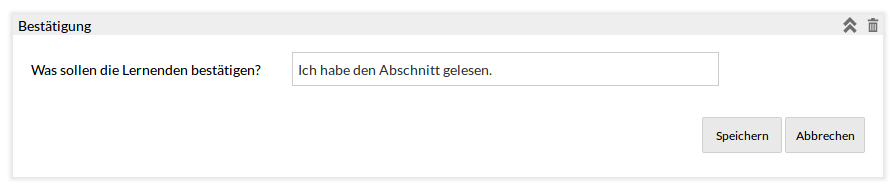
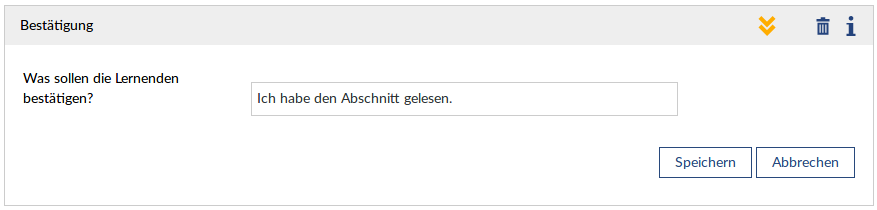
update docs

diff --git a/docs/blocks.md b/docs/blocks.md
@@ -5,50 +5,8 @@ Jeder [Abschnitt](structure.md) wird als eigene Seite dargestellt und kann belie
 
 Folgende Blocktypen sind in Courseware enthalten:
 
-
-Freitext-Block
----------------
-Freitext-Blöcke enthalten beliebig lange Texte die mittels eines WYSIWYG-Editors erstellt und formatiert werden können.
-Der WYSIWYG-Editor ermöglicht außerdem das Einbinden von Bildern und externen Links.
-
-![Autorenansicht des Freitext-Blocks](img/htmlBlock_edit.png)
-_Autorenansicht des Freitext-Blocks_
-
-![Studentenansicht des Freitext-Blocks](img/htmlBlock.png)
-_Studentenansicht des Freitext-Blocks_
-
-
-Video-Block
-------------
-Der Video-Block bettet ein Video aus verschiedensten Quellen in Courseware ein. Folgende Optionen stehen zur Auswahl:
-- **Webvideo** ermöglicht das einbetten eines <video>-Tags. Es können verschiedene Qualitäten und Dateiformate gewählt werden.
-- **YouTube**  bindet Videos mittels einer YouTube-ID ein. Es können Autoplay sowie Start und Ende des Videos gewählt werden.
-- **openCast** bindet Vorlesungsaufzeichnungen ein die mit dem openCast-Player dargestellt werden.
-- **eingebettetes Video (iFrame)** ermöglicht das einbetten mittels <iframe>-Tag. Dies ist notwendig wenn ein spezieller Player bereitgestellt wird.
-
-![Autorenansicht des Video-Blocks](img/videoBlock_edit.png)
-_Autorenansicht des Video-Blocks_
-
-![Studentenansicht des Video-Blocks](img/videoBlock.png)
-_Studentenansicht des Video-Blocks_
-
-
-Quiz-Block
------------
-Der Quiz-Block stellt Aufgaben aus dem Vips-Plugin dar. Die Aufgaben können von den Lernenden bearbeitet und zur Auswertung abgeschickt werden.
-Es gibt zwei Typen von Quiz-Blöcken, den Selbsttest und das Übungsblatt. Selbsttest können beliebig oft ausgeführt werden, die Auswertung erfolgt sofort.
-In den Courseware-Einstellungen kann die Anzahl der Versuche, bis die Lösung angezeigt wird, eingestellt werden. Das Übungsblatt wird erst durch den Dozenten
-im Vips-Plugin ausgewertet. Solange die Übung aktiv ist kann ein Lernender die Lösungen abändern. 
-
-![Autorenansicht des Quiz-Blocks](img/testBlock_edit.png)
-_Autorenansicht des Quiz-Blocks_
-
-![Studentenansicht des Quiz-Blocks](img/testBlock.png)
-_Studentenansicht des Quiz-Blocks_
-
-
-Audio-Block
-------------
+Audio
+-----
 In den Audio-Block können Audiodateien aus dem Dateibereich in Courseware eingebunden werden.
 Der Courseware-Audio-Player ermöglicht die Funktionen Play, Pause und Stop. Vor- und zurückspulen ist 
 über die Fortschrittsanzeige möglich.
@@ -62,20 +20,8 @@ _Autorenansicht des Audio-Blocks_
 _Studentenansicht des Audio-Blocks_
 
 
-Quellcode-Block (ab 3.0)
-------------------------
-Der Quellcode-Block verwendet das Syntax-Highlighting-Tool [highlight.js](https://highlightjs.org/).
-Eingegebener Quelltext wird mittels der angegebenen Sprache dargestellt wie in einer IDE.
-
-![Autorenansicht des Quellcode-Blocks](img/codeBlock_edit.png)
-_Autorenansicht des Quellcode-Blocks_
-
-![Studentenansicht des Quellcode-Blocks](img/codeBlock.png)
-_Studentenansicht des Quellcode-Blocks_
-
-
-Bestätigungs-Block
--------------------
+Bestätigung
+-----------
 In einer Courseware die sequentiell abgearbeitet werden soll müssen die in einer Sektion enthaltenen Blöcke bearbeitet werden damit das nächste Kapitel aufgerufen werden kann.
 Da manche Blöcke wie z.B. Freitext-Block, IFrame-Block etc. nur das betrachten als Bestehenskriterium haben, kann mit dem Bestätigungs-Block eine zusätzliches Bestehenskriterium
 
@@ -88,8 +34,31 @@ _Autorenansicht des Bestätigungs-Blocks_
 _Studentenansicht des Bestätigungs-Blocks_
 
 
-Download-Block
----------------
+Bildvergleich
+-------------
+Der Bildvergleich-Block ermöglicht den direkten Vergleich zwischen zwei Bildern. Mit einem Schieberegler kann ein Bild
+über ein anderes gelegt werden. Die Bilder können von einer URL oder aus dem Dateibereich geladen werden.
+
+![Autorenansicht des Bildvergleich-Blocks](img/beforeAfterBlockBlock_edit.png)
+_Autorenansicht des Bildvergleich-Blocks_
+
+![Studentenansicht des Bildvergleich-Blocks](img/beforeAfterBlockBlock.png)
+_Studentenansicht des Bildvergleich-Blocks_
+
+
+Diagramm
+--------
+Mit dem Diagramm-Block können unkompliziert Diagramm erstellt werden, diese werden bei der Darstellung animiert.
+
+![Autorenansicht des Diagramm-Blocks](img/diagrammBlock_edit.png)
+_Autorenansicht des Diagramm-Blocks_
+
+![Studentenansicht des Diagramm-Blocks](img/diagrammBlock.png)
+_Studentenansicht des Diagramm-Blocks_
+
+
+Download
+--------
 Dieser Block ermöglicht den Download einer Datei aus dem Dateibereich.
 
 ![Autorenansicht des Download-Blocks](img/downloadBlock_edit.png)
@@ -99,31 +68,22 @@ _Autorenansicht des Download-Blocks_
 _Studentenansicht des Download-Blocks_
 
 
-Evaluationen-Block
--------------------
-Mit diesem Block können StudI-Evaluationen in Courseware eingebunden werden.
+Embed
+-----
+Mit diesem Block lassen sich Inhalte von diversen Plattformen in Courseware einbinden.
+
+![Autorenansicht des Embed-Blocks](img/embedBlock_edit.png)
+_Autorenansicht des Embed-Blocks_
+
+![Studentenansicht des Embed-Blocks](img/embedBlock.png)
+_Studentenansicht des Embed-Blocks_
 
 
-Forum-Block
-------------
-Mit diesem Block kann das StudIP-Forum in Courseware eingebunden werden.
-
-
-Gruppierungs-Block
--------------------
-Der Gruppierungs-Block fasst optisch mehrere Blöcke zusammen. Es ist eine Darstellung in einem sogenannten Accordion oder in Tabs möglich.
-
-![Autorenansicht des Gruppierungs-Blocks](img/assortBlock_edit.png)
-_Autorenansicht des Gruppierungs-Blocks_
-
-![Studentenansicht des Gruppierungs-Blocks](img/assortBlock.png)
-_Studentenansicht des Gruppierungs-Blocks_
-
-
-IFrame-Block
--------------
+externe Inhalte (iframe)
+-------------------------
 Dieser Block bindet externe Inhalte von anderen Websites ein. Es kann die URL der einzubindenden Website angegeben werden, sowie die Höhe die dieser Block einnehmen soll.
 Außerdem besteht die Möglichkeit eine einmalige User-ID an die eingebundene Seite zu übermitteln. Dies ID lässt keine Rückschlüsse auf den StudIP-Nutzer zu, identifiziert jedoch eindeutig.
+Zur Kennzeichnung der Inhalte können Creative Commons angaben gemacht werden.
 
 ![Autorenansicht des IFrame-Blocks](img/iframeBlock_edit_1.png)
 _Autorenansicht des IFrame-Blocks_
@@ -135,8 +95,25 @@ _Autorenansicht des IFrame-Blocks mit Übergabeparameter_
 _Studentenansicht des IFrame-Blocks_
 
 
-Galerie-Block (ab 2.2)
------------------------
+Forum
+------
+Mit diesem Block kann das StudIP-Forum in Courseware eingebunden werden.
+
+
+Freitext
+--------
+Freitext-Blöcke enthalten beliebig lange Texte die mittels eines WYSIWYG-Editors erstellt und formatiert werden können.
+Der WYSIWYG-Editor ermöglicht außerdem das Einbinden von Bildern und externen Links.
+
+![Autorenansicht des Freitext-Blocks](img/htmlBlock_edit.png)
+_Autorenansicht des Freitext-Blocks_
+
+![Studentenansicht des Freitext-Blocks](img/htmlBlock.png)
+_Studentenansicht des Freitext-Blocks_
+
+
+Galerie
+-------
 In den Galerie-Block werden alle Bilder aus einem Ordner des Dateibereichs in einer Karussellansicht angezeigt. 
 Die Bilder können automatisch wechseln (autoplay) und die Navigationspfeile können ausgeblendet werden.
 
@@ -150,53 +127,31 @@ _Studentenansicht des Galerie-Blocks mit Navigationspfeilen_
 _Studentenansicht des Galerie-Blocks ohne Navigationspfeile_
 
 
-Merksatz-Block (ab 3.0)
-------------------------
-Der Merksatz-Block ermöglicht das hervorheben von Informationen. Es können 5 verschiedene Farben und 15 verschiedene Icons ausgewählt werden.
+Gruppierung
+-----------
+Der Gruppierungs-Block fasst optisch mehrere Blöcke zusammen. Es ist eine Darstellung in einem sogenannten Accordion oder in Tabs möglich.
 
-![Autorenansicht des Merksatz-Blocks](img/keypointBlock_edit.png)
-_Autorenansicht des Merksatz-Blocks_
+![Autorenansicht des Gruppierungs-Blocks](img/assortBlock_edit.png)
+_Autorenansicht des Gruppierungs-Blocks_
 
-![Studentenansicht des Merksatz-Blocks](img/keypointBlock.png)
-_Studentenansicht des Merksatz-Blocks_
-
-
-Such-Block (ab 3.0)
---------------------
-Der Such-Block ermöglicht das Suchen innerhalb der Courseware einer Veranstaltung. 
-Dieser Block kann sowohl in Sektionen als auch in der Sidebar verwendet werden.
-
-![Autorenansicht des Such-Blocks](img/searchBlock_edit.png)
-_Autorenansicht des Such-Blocks_
-
-![Studentenansicht des Such-Blocks](img/searchBlock.png)
-_Studentenansicht des Such-Blocks_
+![Studentenansicht des Gruppierungs-Blocks](img/assortBlock.png)
+_Studentenansicht des Gruppierungs-Blocks_
 
 
-Link-Block (ab 3.0)
---------------------
-Mit dem Link-Block lassen sich Links auf Strukturelemente innerhalb der Courseware setzen und externe Links erstellen.
+Interactive Video
+-----------------
+Mit dem InteractiveVideo-Block lassen sich während ein Video abgespielt wird Texte einblenden, Haltepunkte mit Text stoppen die Wiedergabe
+ und Aufgaben aus Vips lassen sich direkt im Video bearbeiten. Texte können in verschiedenen vordefinierten Formaten dargestellt und positioniert werden.
 
-![Autorenansicht des Link-Blocks](img/linkBlock_edit.png)
-_Autorenansicht des Link-Blocks_
+![Autorenansicht des InteractiveVideo-Blocks](img/iav_edit.png)
+_Autorenansicht des InteractiveVideo-Blocks_
 
-![Studentenansicht des Link-Blocks](img/linkBlock.png)
-_Studentenansicht des Link-Blocks_
-
-
-PDF-Block (ab 3.0)
---------------------
-Der PDF-Block kann PDF Dateien aus dem Dateibereich darstellen. Die Datei lässt sich wie gewohnt durchblättern und runter laden.
-
-![Autorenansicht des PDF-Blocks](img/pdfBlock_edit.png)
-_Autorenansicht des PDF-Blocks_
-
-![Studentenansicht des PDF-Blocks](img/pdfBlock.png)
-_Studentenansicht des PDF-Blocks_
+![Studentenansicht des InteractiveVideo-Blocks](img/iav.png)
+_Studentenansicht des InteractiveVideo-Blocks_
 
 
-Kommentare & Diskussion Block (ab 3.0)
---------------------
+Kommentare & Diskussion
+-----------------------
 Dieser Block ermöglicht eine Kommunikation zwischen den Lernenden untereinander und mit dem Lehrenden. 
 Kommentare und Fragen können hiermit gezielt an einer gewünschten Stelle eingebunden werden. Der Lehrende hat die 
 Möglichkeit über die Diskussionsübersicht alle Diskussionen einer Veranstaltung auf einen Blick zu sehen.
@@ -209,3 +164,136 @@ _Studentenansicht des Kommentare & Diskussion Blocks_
 
 ![Diskussionsübersicht für Lehrende](img/cpo_post.png)
 _Diskussionsübersicht für Lehrende_
+
+
+Lernkarten
+----------
+Der Lernkarten-Block kann ein Set beliebig vieler Karten enthalten. Auf die Vorder- und Rückseite
+einer Karte kann ein Bild und ein Text gesetzt werden. Der Lernende kann durch die Karten blättern und jede Karte umdrehen.
+
+![Autorenansicht des Lernkarten-Blocks](img/dialogCardBlock_edit.png)
+_Autorenansicht des Lernkarten-Blocks_
+
+![Studentenansicht des Lernkarten-Blocks](img/dialogCardBlock.png)
+_Studentenansicht des Lernkarten-Blocks_
+
+
+Link
+----
+Mit dem Link-Block lassen sich Links auf Strukturelemente innerhalb der Courseware setzen und externe Links erstellen.
+
+![Autorenansicht des Link-Blocks](img/linkBlock_edit.png)
+_Autorenansicht des Link-Blocks_
+
+![Studentenansicht des Link-Blocks](img/linkBlock.png)
+_Studentenansicht des Link-Blocks_
+
+
+Merksatz
+--------
+Der Merksatz-Block ermöglicht das hervorheben von Informationen. Es können 5 verschiedene Farben und 15 verschiedene Icons ausgewählt werden.
+
+![Autorenansicht des Merksatz-Blocks](img/keypointBlock_edit.png)
+_Autorenansicht des Merksatz-Blocks_
+
+![Studentenansicht des Merksatz-Blocks](img/keypointBlock.png)
+_Studentenansicht des Merksatz-Blocks_
+
+
+Opencast
+--------
+In Verbindung mit dem Opencast-Plugin können Opencast-Videos abgespielt werden. Wahlweise kann der Opencast-Player verwendet werden.
+
+![Autorenansicht des Opencast-Blocks](img/openCastBlock_edit.png)
+_Autorenansicht des Opencast-Blocks_
+
+![Studentenansicht des Opencast-Blocks](img/openCastBlock.png)
+_Studentenansicht des Opencast-Blocks_
+
+
+PDF mit Vorschau
+----------------
+Der PDF-Block kann PDF Dateien aus dem Dateibereich darstellen. Die Datei lässt sich wie gewohnt durchblättern und runter laden.
+
+![Autorenansicht des PDF-Blocks](img/pdfBlock_edit.png)
+_Autorenansicht des PDF-Blocks_
+
+![Studentenansicht des PDF-Blocks](img/pdfBlock.png)
+_Studentenansicht des PDF-Blocks_
+
+
+Quellcode-Block
+----------------
+Der Quellcode-Block verwendet das Syntax-Highlighting-Tool [highlight.js](https://highlightjs.org/).
+Eingegebener Quelltext wird mittels der angegebenen Sprache dargestellt wie in einer IDE.
+
+![Autorenansicht des Quellcode-Blocks](img/codeBlock_edit.png)
+_Autorenansicht des Quellcode-Blocks_
+
+![Studentenansicht des Quellcode-Blocks](img/codeBlock.png)
+_Studentenansicht des Quellcode-Blocks_
+
+
+Quiz
+----
+Der Quiz-Block stellt Aufgaben aus dem Vips-Plugin dar. Die Aufgaben können von den Lernenden bearbeitet und zur Auswertung abgeschickt werden.
+Es gibt zwei Typen von Quiz-Blöcken, den Selbsttest und das Übungsblatt. Selbsttest können beliebig oft ausgeführt werden, die Auswertung erfolgt sofort.
+In den Courseware-Einstellungen kann die Anzahl der Versuche, bis die Lösung angezeigt wird, eingestellt werden. Das Übungsblatt wird erst durch den Dozenten
+im Vips-Plugin ausgewertet. Solange die Übung aktiv ist kann ein Lernender die Lösungen abändern. 
+
+![Autorenansicht des Quiz-Blocks](img/testBlock_edit.png)
+_Autorenansicht des Quiz-Blocks_
+
+![Studentenansicht des Quiz-Blocks](img/testBlock.png)
+_Studentenansicht des Quiz-Blocks_
+
+
+Suche
+-----
+Der Such-Block ermöglicht das Suchen innerhalb der Courseware einer Veranstaltung. 
+Dieser Block kann sowohl in Sektionen als auch in der Sidebar verwendet werden.
+
+![Autorenansicht des Such-Blocks](img/searchBlock_edit.png)
+_Autorenansicht des Such-Blocks_
+
+![Studentenansicht des Such-Blocks](img/searchBlock.png)
+_Studentenansicht des Such-Blocks_
+
+
+Video
+-----
+Der Video-Block bettet ein Video aus verschiedensten Quellen in Courseware ein. Folgende Optionen stehen zur Auswahl:
+- **Webvideo** ermöglicht das einbetten eines <video>-Tags. Es können verschiedene Qualitäten und Dateiformate gewählt werden.
+- **eingebettetes Video (iFrame)** ermöglicht das einbetten mittels <iframe>-Tag. Dies ist notwendig wenn ein spezieller Player bereitgestellt wird.
+
+![Autorenansicht des Video-Blocks](img/videoBlock_edit.png)
+_Autorenansicht des Video-Blocks_
+
+![Studentenansicht des Video-Blocks](img/videoBlock.png)
+_Studentenansicht des Video-Blocks_
+
+
+
+
+
+
+
+
+
+
+
+
+
+
+
+
+
+
+
+
+
+
+
+
+
+
